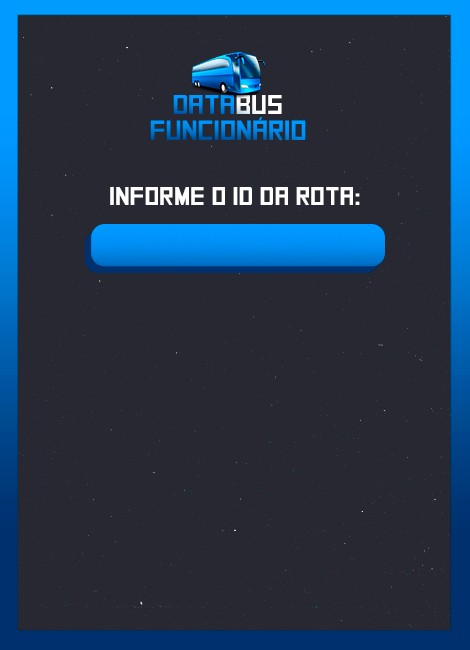
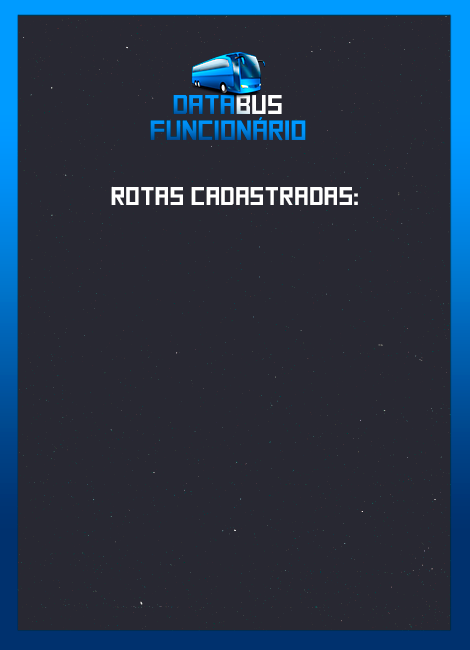
Alteracoes Telas Func

Changed region(s): [[0.1787, 0.2769, 0.834, 0.4308]]

diff --git a/controller/ScreenController.java b/controller/ScreenController.java
@@ -256,19 +256,33 @@ public class ScreenController implements Initializable {
   @FXML
   private Group groupBuscarRotas;
   @FXML
-  private TextField textFuncionarioROTAS;
+  private TableView<Cliente> tbwRotasCadastradas;
   @FXML
-  private ImageView botaoBuscarRotaLUPA;
+  private TableColumn<Cliente, String> idRota;
   @FXML
-  private TableView<Cliente> tbwROTAS;
+  private TableColumn<Cliente, String> pontoSaida;
   @FXML
-  private TableColumn<Cliente, String> Partida;
+  private TableColumn<Cliente, String> pontoChegada;
   @FXML
-  private TableColumn<Cliente, String> Chegada;
+  private TableColumn<Cliente, String> saida;
   @FXML
-  private TableColumn<Cliente, String> horaSaida;
+  private TableColumn<Cliente, String> chegada;
+
   @FXML
-  private TableColumn<Cliente, String> horaChegada;
+  private TextField cadRotaID;
+  @FXML
+  private TextField cadRotaPartida;
+  @FXML
+  private TextField cadRotaChegada;
+  @FXML
+  private TextField cadRotahSaida;
+  @FXML
+  private TextField cadRotahChegada;
+  @FXML
+  private ImageView botaoCadastrarRotas;
+  @FXML
+  private Group groupCadastrarRotas;
+
 
   private Cliente ClienteAtual;
   private Passe passe;
@@ -576,6 +590,15 @@ public class ScreenController implements Initializable {
 
   @FXML
   void gerenciarRotas(MouseEvent event) {
+    groupFuncionario.setVisible(false);
+    groupFuncionario.setDisable(true);
+
+    groupCadastrarRotas.setVisible(true);
+    groupCadastrarRotas.setDisable(false);
+
+    botaoVoltar.setVisible(true);
+    botaoVoltar.setDisable(false);
+    homeButton.setVisible(false);
 
   }
 
@@ -1040,6 +1063,8 @@ public class ScreenController implements Initializable {
       groupBuscarCliente.setDisable(true);
       groupBuscarRotas.setVisible(false);
       groupBuscarRotas.setDisable(true);
+      groupCadastrarRotas.setVisible(false);
+      groupCadastrarRotas.setDisable(true);
 
       groupFuncionario.setVisible(true);
       groupFuncionario.setDisable(false);
@@ -1089,5 +1114,9 @@ public class ScreenController implements Initializable {
     } else {
       showCaixaAlerta("Digite o Valor Corretamente, USE EXCLUSIVAMENTE OS NUMEROS");
     }
+  }
+  @FXML
+  void clickBotaoCadastrarRotas(MouseEvent event) { //
+
   }
 }
